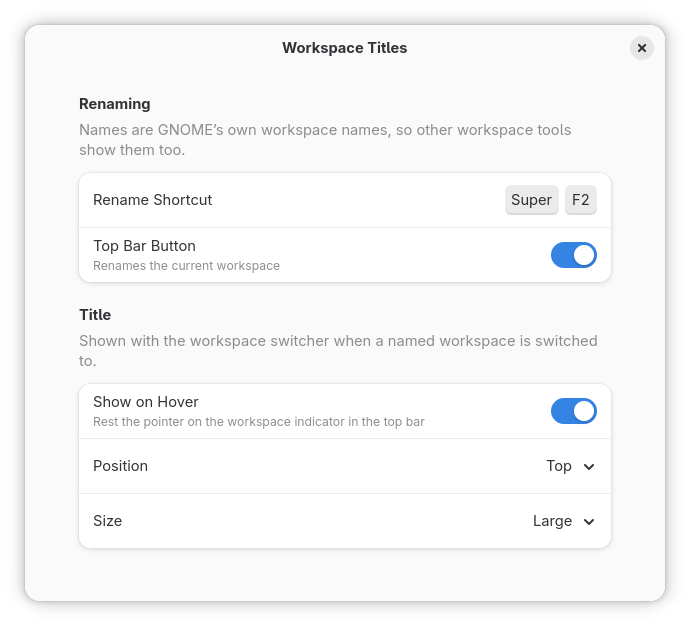
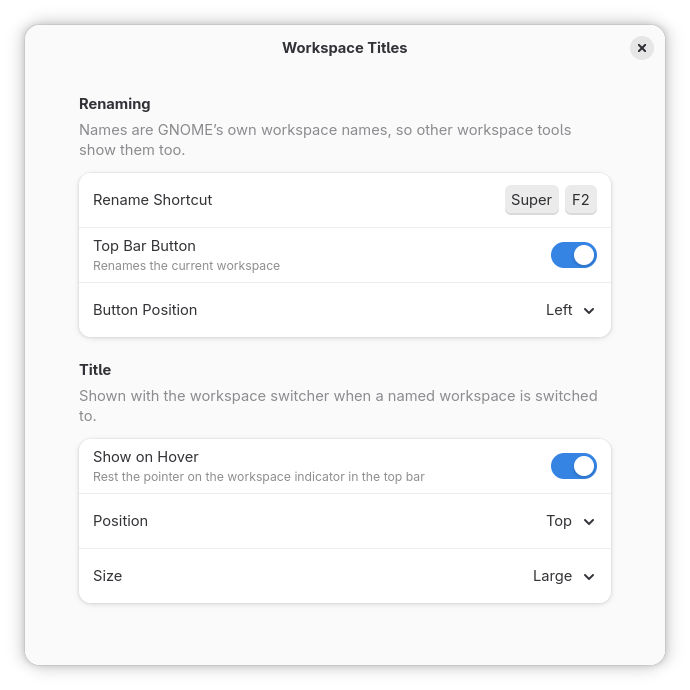
The top-bar button sits right of the workspace dots by default, with a preference for where (#14)
A new indicator-position setting (left, center, right) places the rename button:
left, just right of the Activities button, by default; center, right of the clock;
right, beside the system menu as before. A change moves it at once.

Fixes #13

diff --git a/src/lib/app.js b/src/lib/app.js
@@ -20,6 +20,14 @@ import {WorkspaceTitlesTitle} from './title.js';
 // again this often keeps it up, inside the popup's own 600 ms.
 const HOVER_DELAY = 500;
 
+// The panel box and index for each indicator-position: left is just right of the
+// Activities button, center right of the clock.
+const INDICATOR_PLACES = {
+    left: ['left', 1],
+    center: ['center', -1],
+    right: ['right', 0],
+};
+
 const WorkspaceTitlesIndicator = GObject.registerClass(
 class WorkspaceTitlesIndicator extends PanelMenu.Button {
     _init(name, onActivate) {
@@ -92,7 +100,13 @@ export class WorkspaceTitlesApp {
             }
         }, this);
 
-        this._settings.connectObject('changed::show-indicator', () => this._syncIndicator(), this);
+        this._settings.connectObject(
+            'changed::show-indicator', () => this._syncIndicator(),
+            'changed::indicator-position', () => {
+                this._indicator?.destroy();
+                this._indicator = null;
+                this._syncIndicator();
+            }, this);
         this._syncIndicator();
     }
 
@@ -166,7 +180,8 @@ export class WorkspaceTitlesApp {
         const show = this._settings.get_boolean('show-indicator');
         if (show && !this._indicator) {
             this._indicator = new WorkspaceTitlesIndicator(this._extension.metadata.name, () => this._rename());
-            Main.panel.addToStatusArea(this._extension.uuid, this._indicator);
+            const [box, index] = INDICATOR_PLACES[this._settings.get_string('indicator-position')];
+            Main.panel.addToStatusArea(this._extension.uuid, this._indicator, index, box);
         } else if (!show && this._indicator) {
             this._indicator.destroy();
             this._indicator = null;

diff --git a/src/prefs.js b/src/prefs.js
@@ -6,6 +6,7 @@ import Gtk from 'gi://Gtk';
 import {ExtensionPreferences} from 'resource:///org/gnome/Shell/Extensions/js/extensions/prefs.js';
 
 const POSITIONS = [['top', 'Top'], ['center', 'Center']];
+const PLACES = [['left', 'Left'], ['center', 'Center'], ['right', 'Right']];
 const SIZES = [['small', 'Small'], ['large', 'Large'], ['huge', 'Huge']];
 
 export default class WorkspaceTitlesPreferences extends ExtensionPreferences {
@@ -24,6 +25,9 @@ export default class WorkspaceTitlesPreferences extends ExtensionPreferences {
         });
         settings.bind('show-indicator', button, 'active', Gio.SettingsBindFlags.DEFAULT);
         rename.add(button);
+        const place = comboRow(settings, 'indicator-position', 'Button Position', PLACES);
+        settings.bind('show-indicator', place, 'sensitive', Gio.SettingsBindFlags.GET);
+        rename.add(place);
         page.add(rename);
 
         const title = new Adw.PreferencesGroup({
@@ -41,6 +45,7 @@ export default class WorkspaceTitlesPreferences extends ExtensionPreferences {
         page.add(title);
 
         window.add(page);
+        window.default_height = 640;
     }
 
     _shortcutRow(window, settings) {

diff --git a/README.md b/README.md
@@ -48,11 +48,13 @@ To update, pull and `make install` again; to remove it, `make uninstall`.
 
 ## Preferences
 
-![The preferences: the rename shortcut Super+F2, the top-bar button, show on hover, and the title's position and size](docs/screenshots/preferences.png)
+![The preferences: the rename shortcut Super+F2, the top-bar button and its position (left), show on hover, and the title's position and size](docs/screenshots/preferences.png)
 
 - **Rename Shortcut**: Super+F2 to begin with. Click the row and press a new one,
   with Ctrl, Alt or Super; Backspace removes it.
 - **Top Bar Button**: the pencil that renames the current workspace.
+- **Button Position**: left, just right of the workspace dots (to begin with); center,
+  right of the clock; or right, beside the system menu.
 - **Show on Hover**: the title shows while the pointer rests on the workspace dots in
   the top bar.
 - **Position**: the title at the top of the screen, or in its middle.

diff --git a/.claude/skills/drive-extension/SKILL.md b/.claude/skills/drive-extension/SKILL.md
@@ -25,8 +25,8 @@ never shows. Give it four, and names, in its own settings:
   neither dots nor title: take a throwaway `shot` first.
 - **Where it is**: the title is centred just below the top bar, its box about y 57–127
   on a 1600x900 monitor at `large` (in the middle with `title-position center`); the
-  dots are at the bottom. The pencil is the first icon left of the system menu, about
-  x 1383 at y 14, further left when a screen-sharing or microphone indicator is up.
+  dots are at the bottom. The pencil is just right of the workspace dots, about x 118
+  at y 14 (`indicator-position` `left`, the default).
 - **Renaming**: `key Super+F2` opens the dialog with the name selected; type, `key
   Return`. The popup then shows the new name.
 - **Hover**: `move 40 14` is on the workspace dots (the Activities button), clear of the

diff --git a/CLAUDE.md b/CLAUDE.md
@@ -59,7 +59,8 @@ scripts/ext.conf          what the kit's scripts need to know about this extensi
 ## Settings
 
 `rename-shortcut` (`['<Super>F2']`, grabbed with `Main.wm.addKeybinding`),
-`show-indicator` (true: the pencil in the top bar), `show-on-hover` (true),
+`show-indicator` (true: the pencil in the top bar), `indicator-position` (`left`, right
+of the Activities button; `center`, right of the clock; `right`), `show-on-hover` (true),
 `title-position` (`top`, `center`), `title-size` (`small`, `large`, `huge`). A title's settings are read when a popup is
 made, so a change shows on the next switch.
 
